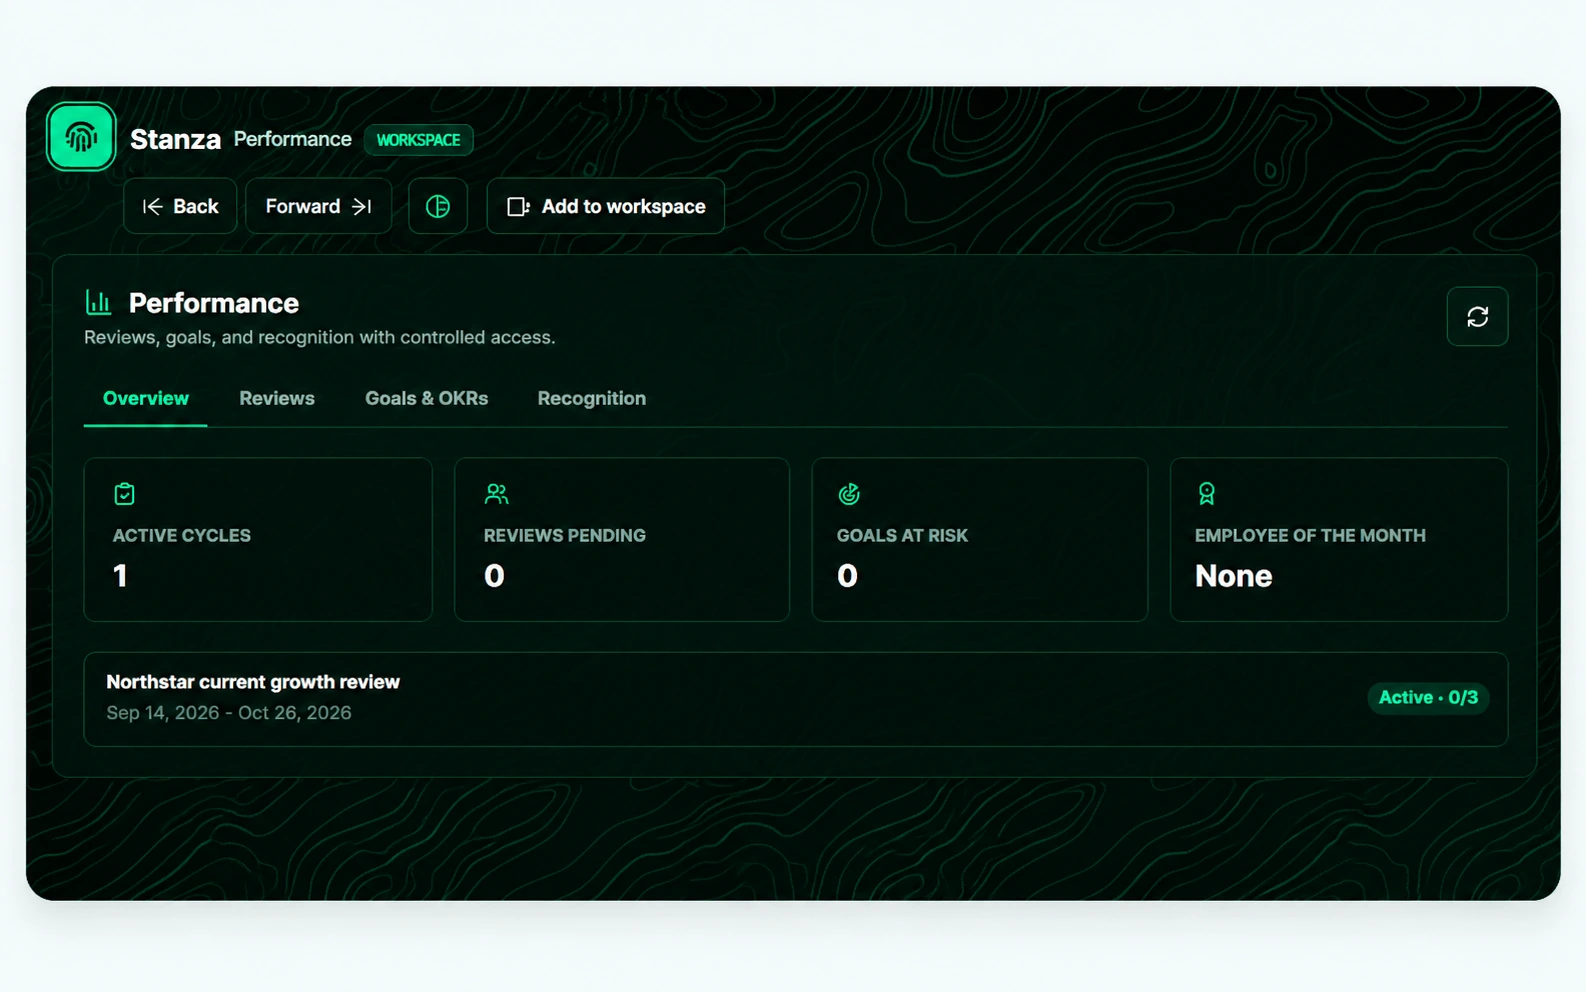
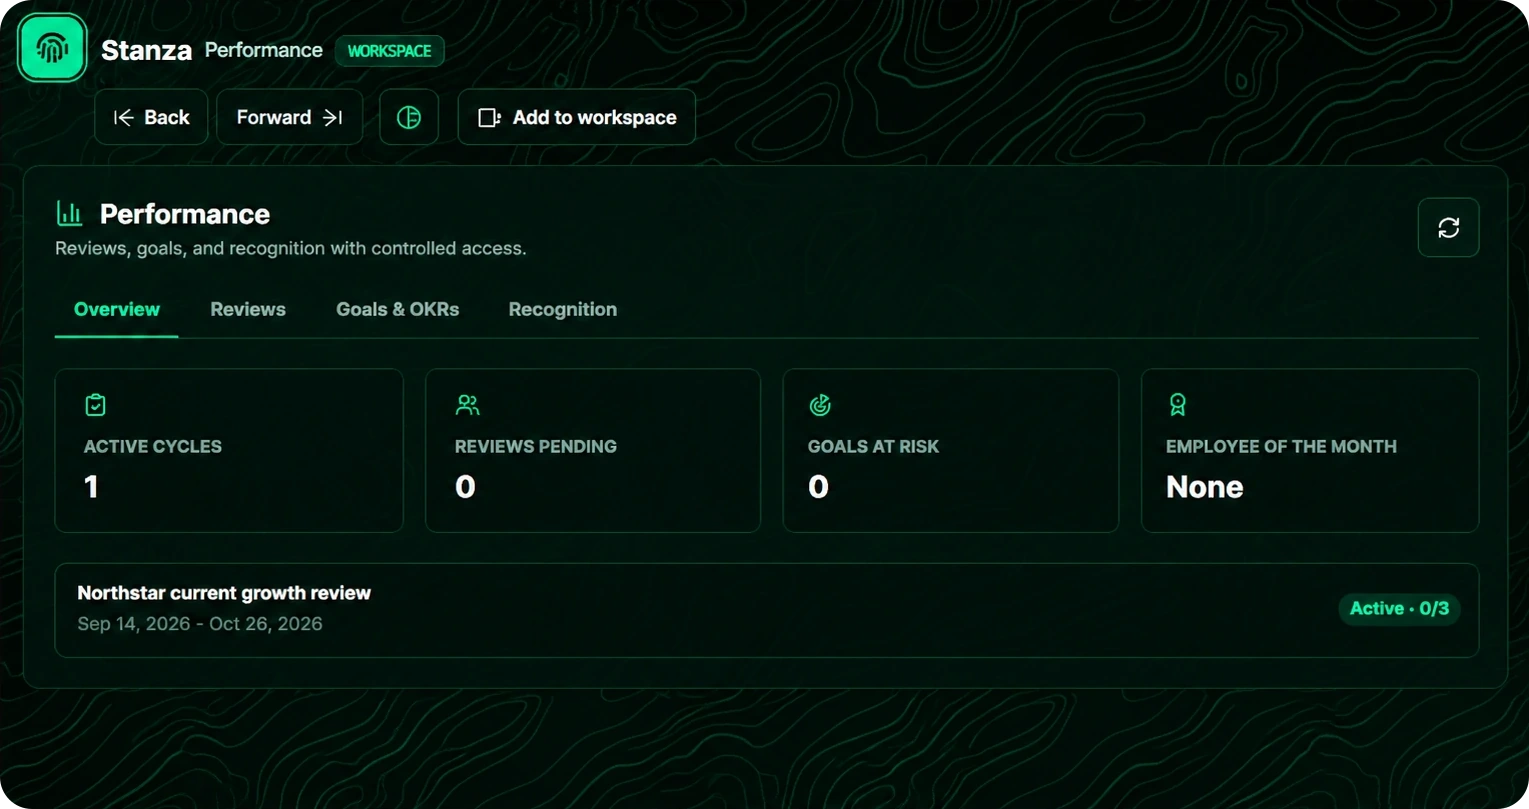
Refine Stanza stage and restore top configurator

diff --git a/index.html b/index.html
@@ -61,6 +61,61 @@
             </nav>
         </div>
 
+        <section class="bento-item calculator configurator" id="estimator-card" aria-labelledby="configurator-title">
+            <header class="configurator-header">
+                <span class="configurator-icon"><svg viewBox="0 0 24 24" fill="none" stroke="currentColor" stroke-width="1.7" stroke-linecap="round" stroke-linejoin="round" aria-hidden="true"><path d="M5 2h14v20H5zM8 6h8v3H8zM8 13h1m6 0h1m-8 4h1m6 0h1"/></svg></span>
+                <div>
+                    <h3 id="configurator-title" data-i18n="projectEstimator">Freelance Project Configurator</h3>
+                    <p data-i18n="configuratorIntro">Compare five project tiers, choose optional features, and see your estimate update.</p>
+                </div>
+                <button type="button" class="configurator-toggle" aria-controls="configurator-panel" aria-expanded="false">
+                    <span data-i18n="configuratorOpen">Configure a Project</span>
+                    <span data-i18n="configuratorClose" hidden>Collapse configurator</span>
+                    <svg viewBox="0 0 24 24" fill="none" stroke="currentColor" stroke-width="1.7" stroke-linecap="round" stroke-linejoin="round" aria-hidden="true"><path d="m6 9 6 6 6-6"/></svg>
+                </button>
+            </header>
+            <div class="configurator-panel" id="configurator-panel" inert>
+                <div class="configurator-clip">
+                    <div class="calc-ui">
+                        <label id="solutionTierLabel" for="tier" data-i18n="solutionTier">Freelance Service Tier</label>
+                        <div class="range-wrapper">
+                            <input type="range" id="tier" min="1" max="5" step="1" value="1" class="slider-control" />
+                            <div class="range-labels">
+                                <span data-i18n="tierRangeStart">Static</span>
+                                <span id="active-tier-val">Tier 1: Static Blueprint</span>
+                                <span data-i18n="tierRangeEnd">Bespoke</span>
+                            </div>
+                        </div>
+
+                        <label id="addonsLabel" style="margin-top: 20px; display: block;" data-i18n="addons">Optional Features</label>
+                        <div class="checkbox-group">
+                            <label><input type="checkbox" class="addon" id="opt-pwa" value="75"> <span data-i18n="checkboxPwa">Native Mobile Installation (PWA)</span></label>
+                            <label><input type="checkbox" class="addon" id="opt-l10n" value="50"> <span data-i18n="checkboxL10n">Asynchronous Multi-Language Matrix (l10n)</span></label>
+                            <label><input type="checkbox" class="addon" id="opt-rbac" value="100"> <span data-i18n="checkboxRBAC">Secure RBAC Authentication & Audit Logging</span></label>
+                            <label><input type="checkbox" class="addon" id="opt-ai" value="150"> <span data-i18n="checkboxAI">Smart AI Assistant / Custom LLM Pipelines</span></label>
+                        </div>
+
+                        <div class="price-box">
+                            <span data-i18n="estInvestment">Estimated Project Price:</span>
+                            <div class="price-row"><small>$</small><strong id="price-display">75</strong> <small>USD</small></div>
+                        </div>
+
+                        <div class="tier-links">
+                            <h4 data-i18n="tierEstimates">Active Service Blueprint</h4>
+                            <p id="tier-subtitle">High-performance single-page layout or landing page.</p>
+                            <ul>
+                                <li><a href="#" class="baseline-link" data-tier-index="1" data-i18n="tier1">Tier 1: Static Blueprint</a></li>
+                                <li><a href="#" class="baseline-link" data-tier-index="2" data-i18n="tier2">Tier 2: Dynamic Multi-View</a></li>
+                                <li><a href="#" class="baseline-link" data-tier-index="3" data-i18n="tier3">Tier 3: Full-Stack Core + AI</a></li>
+                                <li><a href="#" class="baseline-link" data-tier-index="4" data-i18n="tier4">Tier 4: Enterprise Secure & Cognitive</a></li>
+                                <li><a href="#" class="baseline-link" data-tier-index="5" data-i18n="tier5">Tier 5: Bespoke Interactive Canvas</a></li>
+                            </ul>
+                        </div>
+                    </div>
+                </div>
+            </div>
+        </section>
+
         <div class="bento-item project-showcase" id="architectural-showcase-card">
             <h3 data-i18n="featuredProjects">Micro-Architectural Showcase (Flagship Systems)</h3>
 
@@ -152,7 +207,7 @@
                                     </button>
                                 </header>
                                 <div class="stanza-lightbox-media">
-                                    <img width="1586" height="992" decoding="async" alt="" hidden>
+                                    <img decoding="async" alt="" hidden>
                                     <p class="stanza-fallback" role="status" hidden></p>
                                 </div>
                                 <footer class="stanza-lightbox-bar">
@@ -468,61 +523,6 @@
     </div>
     <p class="ship-hint" data-i18n="shipHint">Interact directly with the local 3D rendering cache using swipe/pinch gestures.</p>
 </div>
-        <section class="bento-item calculator configurator" id="estimator-card" aria-labelledby="configurator-title">
-            <header class="configurator-header">
-                <span class="configurator-icon"><svg viewBox="0 0 24 24" fill="none" stroke="currentColor" stroke-width="1.7" stroke-linecap="round" stroke-linejoin="round" aria-hidden="true"><path d="M5 2h14v20H5zM8 6h8v3H8zM8 13h1m6 0h1m-8 4h1m6 0h1"/></svg></span>
-                <div>
-                    <h3 id="configurator-title" data-i18n="projectEstimator">Freelance Project Configurator</h3>
-                    <p data-i18n="configuratorIntro">Compare five project tiers, choose optional features, and see your estimate update.</p>
-                </div>
-                <button type="button" class="configurator-toggle" aria-controls="configurator-panel" aria-expanded="false">
-                    <span data-i18n="configuratorOpen">Configure a Project</span>
-                    <span data-i18n="configuratorClose" hidden>Collapse configurator</span>
-                    <svg viewBox="0 0 24 24" fill="none" stroke="currentColor" stroke-width="1.7" stroke-linecap="round" stroke-linejoin="round" aria-hidden="true"><path d="m6 9 6 6 6-6"/></svg>
-                </button>
-            </header>
-            <div class="configurator-panel" id="configurator-panel" inert>
-                <div class="configurator-clip">
-                    <div class="calc-ui">
-                        <label id="solutionTierLabel" for="tier" data-i18n="solutionTier">Freelance Service Tier</label>
-                        <div class="range-wrapper">
-                            <input type="range" id="tier" min="1" max="5" step="1" value="1" class="slider-control" />
-                            <div class="range-labels">
-                                <span data-i18n="tierRangeStart">Static</span>
-                                <span id="active-tier-val">Tier 1: Static Blueprint</span>
-                                <span data-i18n="tierRangeEnd">Bespoke</span>
-                            </div>
-                        </div>
-
-                        <label id="addonsLabel" style="margin-top: 20px; display: block;" data-i18n="addons">Optional Features</label>
-                        <div class="checkbox-group">
-                            <label><input type="checkbox" class="addon" id="opt-pwa" value="75"> <span data-i18n="checkboxPwa">Native Mobile Installation (PWA)</span></label>
-                            <label><input type="checkbox" class="addon" id="opt-l10n" value="50"> <span data-i18n="checkboxL10n">Asynchronous Multi-Language Matrix (l10n)</span></label>
-                            <label><input type="checkbox" class="addon" id="opt-rbac" value="100"> <span data-i18n="checkboxRBAC">Secure RBAC Authentication & Audit Logging</span></label>
-                            <label><input type="checkbox" class="addon" id="opt-ai" value="150"> <span data-i18n="checkboxAI">Smart AI Assistant / Custom LLM Pipelines</span></label>
-                        </div>
-
-                        <div class="price-box">
-                            <span data-i18n="estInvestment">Estimated Project Price:</span>
-                            <div class="price-row"><small>$</small><strong id="price-display">75</strong> <small>USD</small></div>
-                        </div>
-
-                        <div class="tier-links">
-                            <h4 data-i18n="tierEstimates">Active Service Blueprint</h4>
-                            <p id="tier-subtitle">High-performance single-page layout or landing page.</p>
-                            <ul>
-                                <li><a href="#" class="baseline-link" data-tier-index="1" data-i18n="tier1">Tier 1: Static Blueprint</a></li>
-                                <li><a href="#" class="baseline-link" data-tier-index="2" data-i18n="tier2">Tier 2: Dynamic Multi-View</a></li>
-                                <li><a href="#" class="baseline-link" data-tier-index="3" data-i18n="tier3">Tier 3: Full-Stack Core + AI</a></li>
-                                <li><a href="#" class="baseline-link" data-tier-index="4" data-i18n="tier4">Tier 4: Enterprise Secure & Cognitive</a></li>
-                                <li><a href="#" class="baseline-link" data-tier-index="5" data-i18n="tier5">Tier 5: Bespoke Interactive Canvas</a></li>
-                            </ul>
-                        </div>
-                    </div>
-                </div>
-            </div>
-        </section>
-
     </main>
 
     <footer class="page-footer" id="portfolio-footer">

diff --git a/src/components/stanza-card-swap.css b/src/components/stanza-card-swap.css
@@ -33,6 +33,8 @@ html[dir="rtl"] #pane-p1 { direction: rtl; }
 }
 
 .stanza-stage {
+    --stanza-stage-bg: rgb(12 52 39 / .30);
+    --stanza-stage-border: var(--border);
     --stanza-step-x: clamp(8px, 3.7cqw, 23px);
     --stanza-step-y: clamp(7px, 2.7cqw, 17px);
     --stanza-edge: clamp(11px, 3.3cqw, 23px);
@@ -43,11 +45,15 @@ html[dir="rtl"] #pane-p1 { direction: rtl; }
     padding: calc(var(--stanza-edge) + 3 * var(--stanza-step-y))
              calc(var(--stanza-edge) + 3 * var(--stanza-step-x))
              var(--stanza-edge) var(--stanza-edge);
-    border: 1px solid var(--border);
+    border: 1px solid var(--stanza-stage-border);
     border-radius: 16px;
-    background: radial-gradient(ellipse at 72% 6%, var(--table-header), transparent 66%), var(--input-bg);
+    background: var(--stanza-stage-bg);
     touch-action: pan-y pinch-zoom;
     user-select: none;
+}
+[data-theme="light"] .stanza-stage {
+    --stanza-stage-bg: rgb(35 165 110 / .07);
+    --stanza-stage-border: rgb(35 135 95 / .22);
 }
 
 .stanza-card {
@@ -342,19 +348,11 @@ html:has(.stanza-lightbox[open]) { overflow: hidden; }
     line-height: 1.65;
 }
 .stanza-caption {
-    --stanza-caption-bg: rgb(20 64 48 / .42);
-    --stanza-caption-border: #285744;
-    --stanza-caption-accent: #4c9676;
     padding: .8rem;
-    background: var(--stanza-caption-bg);
-    border: 1px solid var(--stanza-caption-border);
-    border-inline-start: 2px solid var(--stanza-caption-accent);
+    background: var(--input-bg);
+    border: 1px solid var(--border);
+    border-inline-start: 2px solid var(--accent);
     border-radius: 10px;
-}
-[data-theme="light"] .stanza-caption {
-    --stanza-caption-bg: #edf7f0;
-    --stanza-caption-border: #c4ddce;
-    --stanza-caption-accent: #72a88a;
 }
 .stanza-caption h3 {
     font-size: 1.02rem;

diff --git a/src/components/portfolio-controls.css b/src/components/portfolio-controls.css
@@ -92,7 +92,7 @@ html[dir="rtl"] .profile {
 
 .configurator-header {
     display: grid;
-    grid-template-columns: auto minmax(0, 1fr) auto;
+    grid-template-columns: auto minmax(0, 1fr);
     align-items: center;
     gap: clamp(.75rem, 2vw, 1.4rem);
 }
@@ -108,6 +108,8 @@ html[dir="rtl"] .profile {
 }
 .configurator-header p { margin-block-start: .2rem; color: var(--muted); }
 .configurator-toggle {
+    grid-column: 1 / -1;
+    justify-self: stretch;
     display: flex;
     align-items: center;
     justify-content: center;
@@ -159,10 +161,6 @@ html[dir="rtl"] .profile {
     transform: translateY(0);
 }
 .configurator:has(.configurator-toggle[aria-expanded="true"]) .calc-ui::before { transform: scaleX(1); }
-@media (max-width: 640px) {
-    .configurator-header { grid-template-columns: auto minmax(0, 1fr); }
-    .configurator-toggle { grid-column: 1 / -1; }
-}
 @media (prefers-reduced-motion: reduce) {
     .dock-icon, .configurator-panel, .configurator .calc-ui,
     .configurator .calc-ui::before, .configurator-toggle svg { transition: none; }

diff --git a/index.css b/index.css
@@ -225,11 +225,13 @@ button:active {
 
 /* Logical Grid Placements (Totaling 12 scale parameters) */
 .profile {
-    grid-column: span 12;
+    grid-column: span 7;
+    align-self: start;
 }
 
 .calculator {
-    grid-column: span 12;
+    grid-column: span 5;
+    align-self: start;
 }
 
 .systems-topology {
